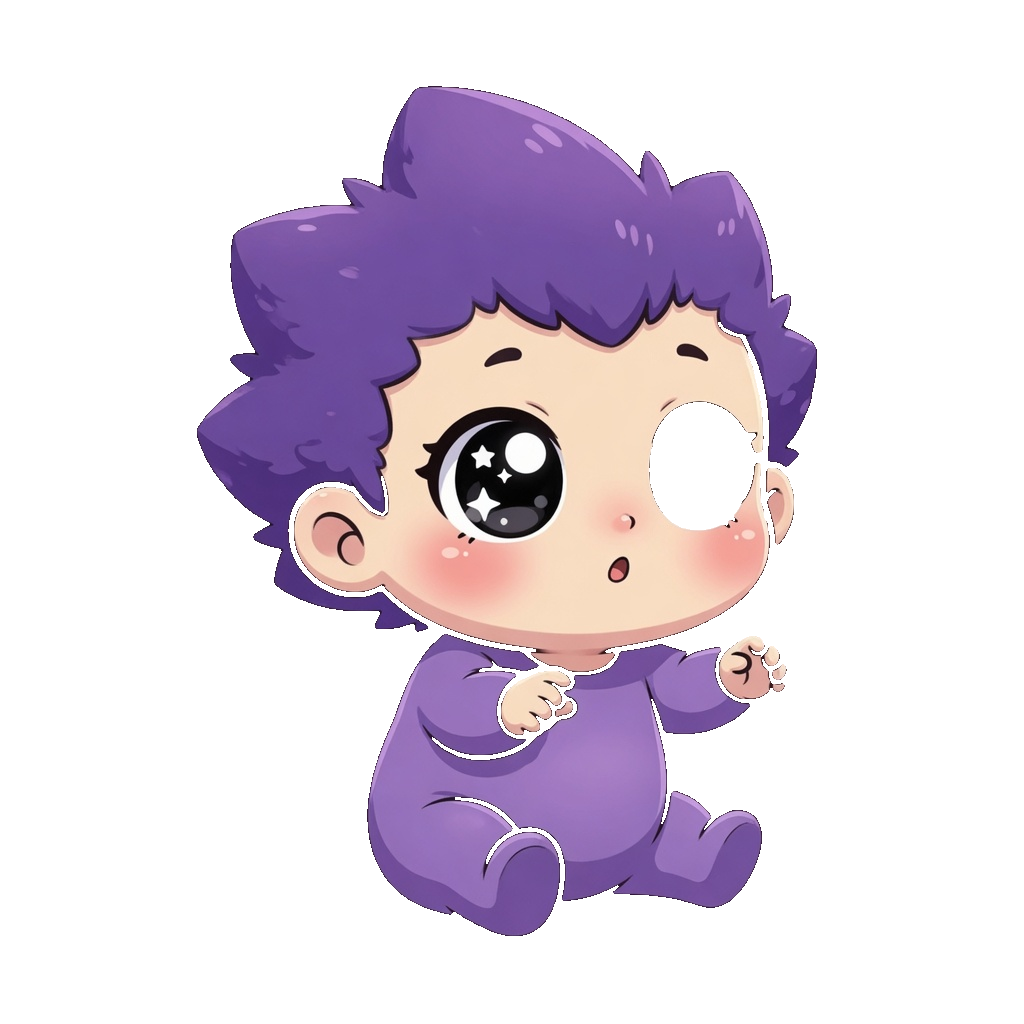
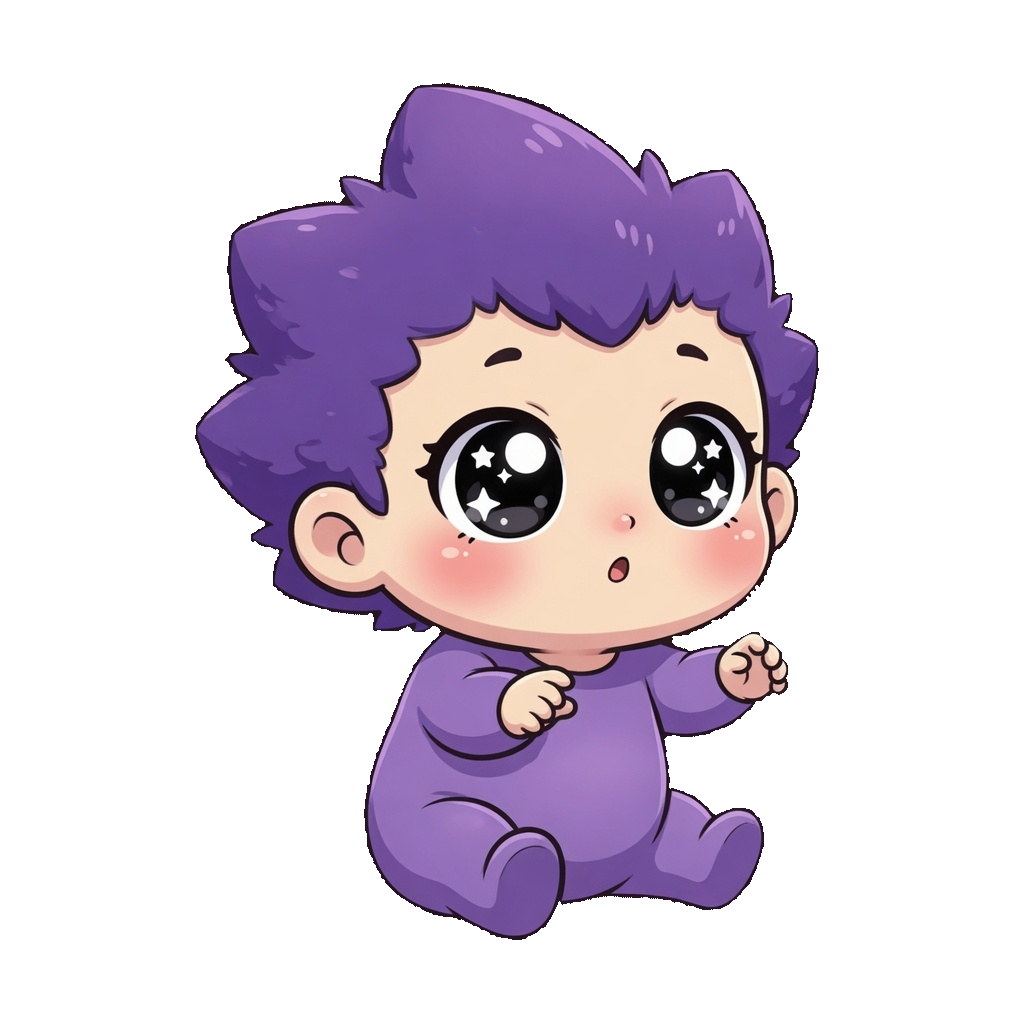
Fix baby-chog: missing right eye + checker bg
Re-stripped from buddy's fresh source PNG using edge-connected flood-fill
instead of the universal stripper that ate the right eye last time.

The old stripper used 'largest connected non-bg component' which dropped
interior dark regions (eye pupils) when they were separated from the
body by the lighter sparkle highlights. New approach: only erase pixels
in checker-pattern regions that connect to the image border via flood
fill. Interior darks survive automatically.

Result:
  - Both eyes solid black with sparkle highlights ✓
  - Clean transparent background, no checker remnants ✓
  - No floating skin/hair fragments outside character ✓

SW: v1.41.0-baby-chog-fixed

diff --git a/sw.js b/sw.js
@@ -3,7 +3,7 @@
              cache-first for static assets (icons, video, json).
    Versioned cache → bumping CHOGI_VERSION invalidates everything cleanly. */
 
-const CHOGI_VERSION   = 'v1.40.0-chog-male';
+const CHOGI_VERSION   = 'v1.41.0-baby-chog-fixed';
 const CACHE_RUNTIME   = 'chogi-runtime-' + CHOGI_VERSION;
 const CACHE_PRECACHE  = 'chogi-shell-'   + CHOGI_VERSION;
 
